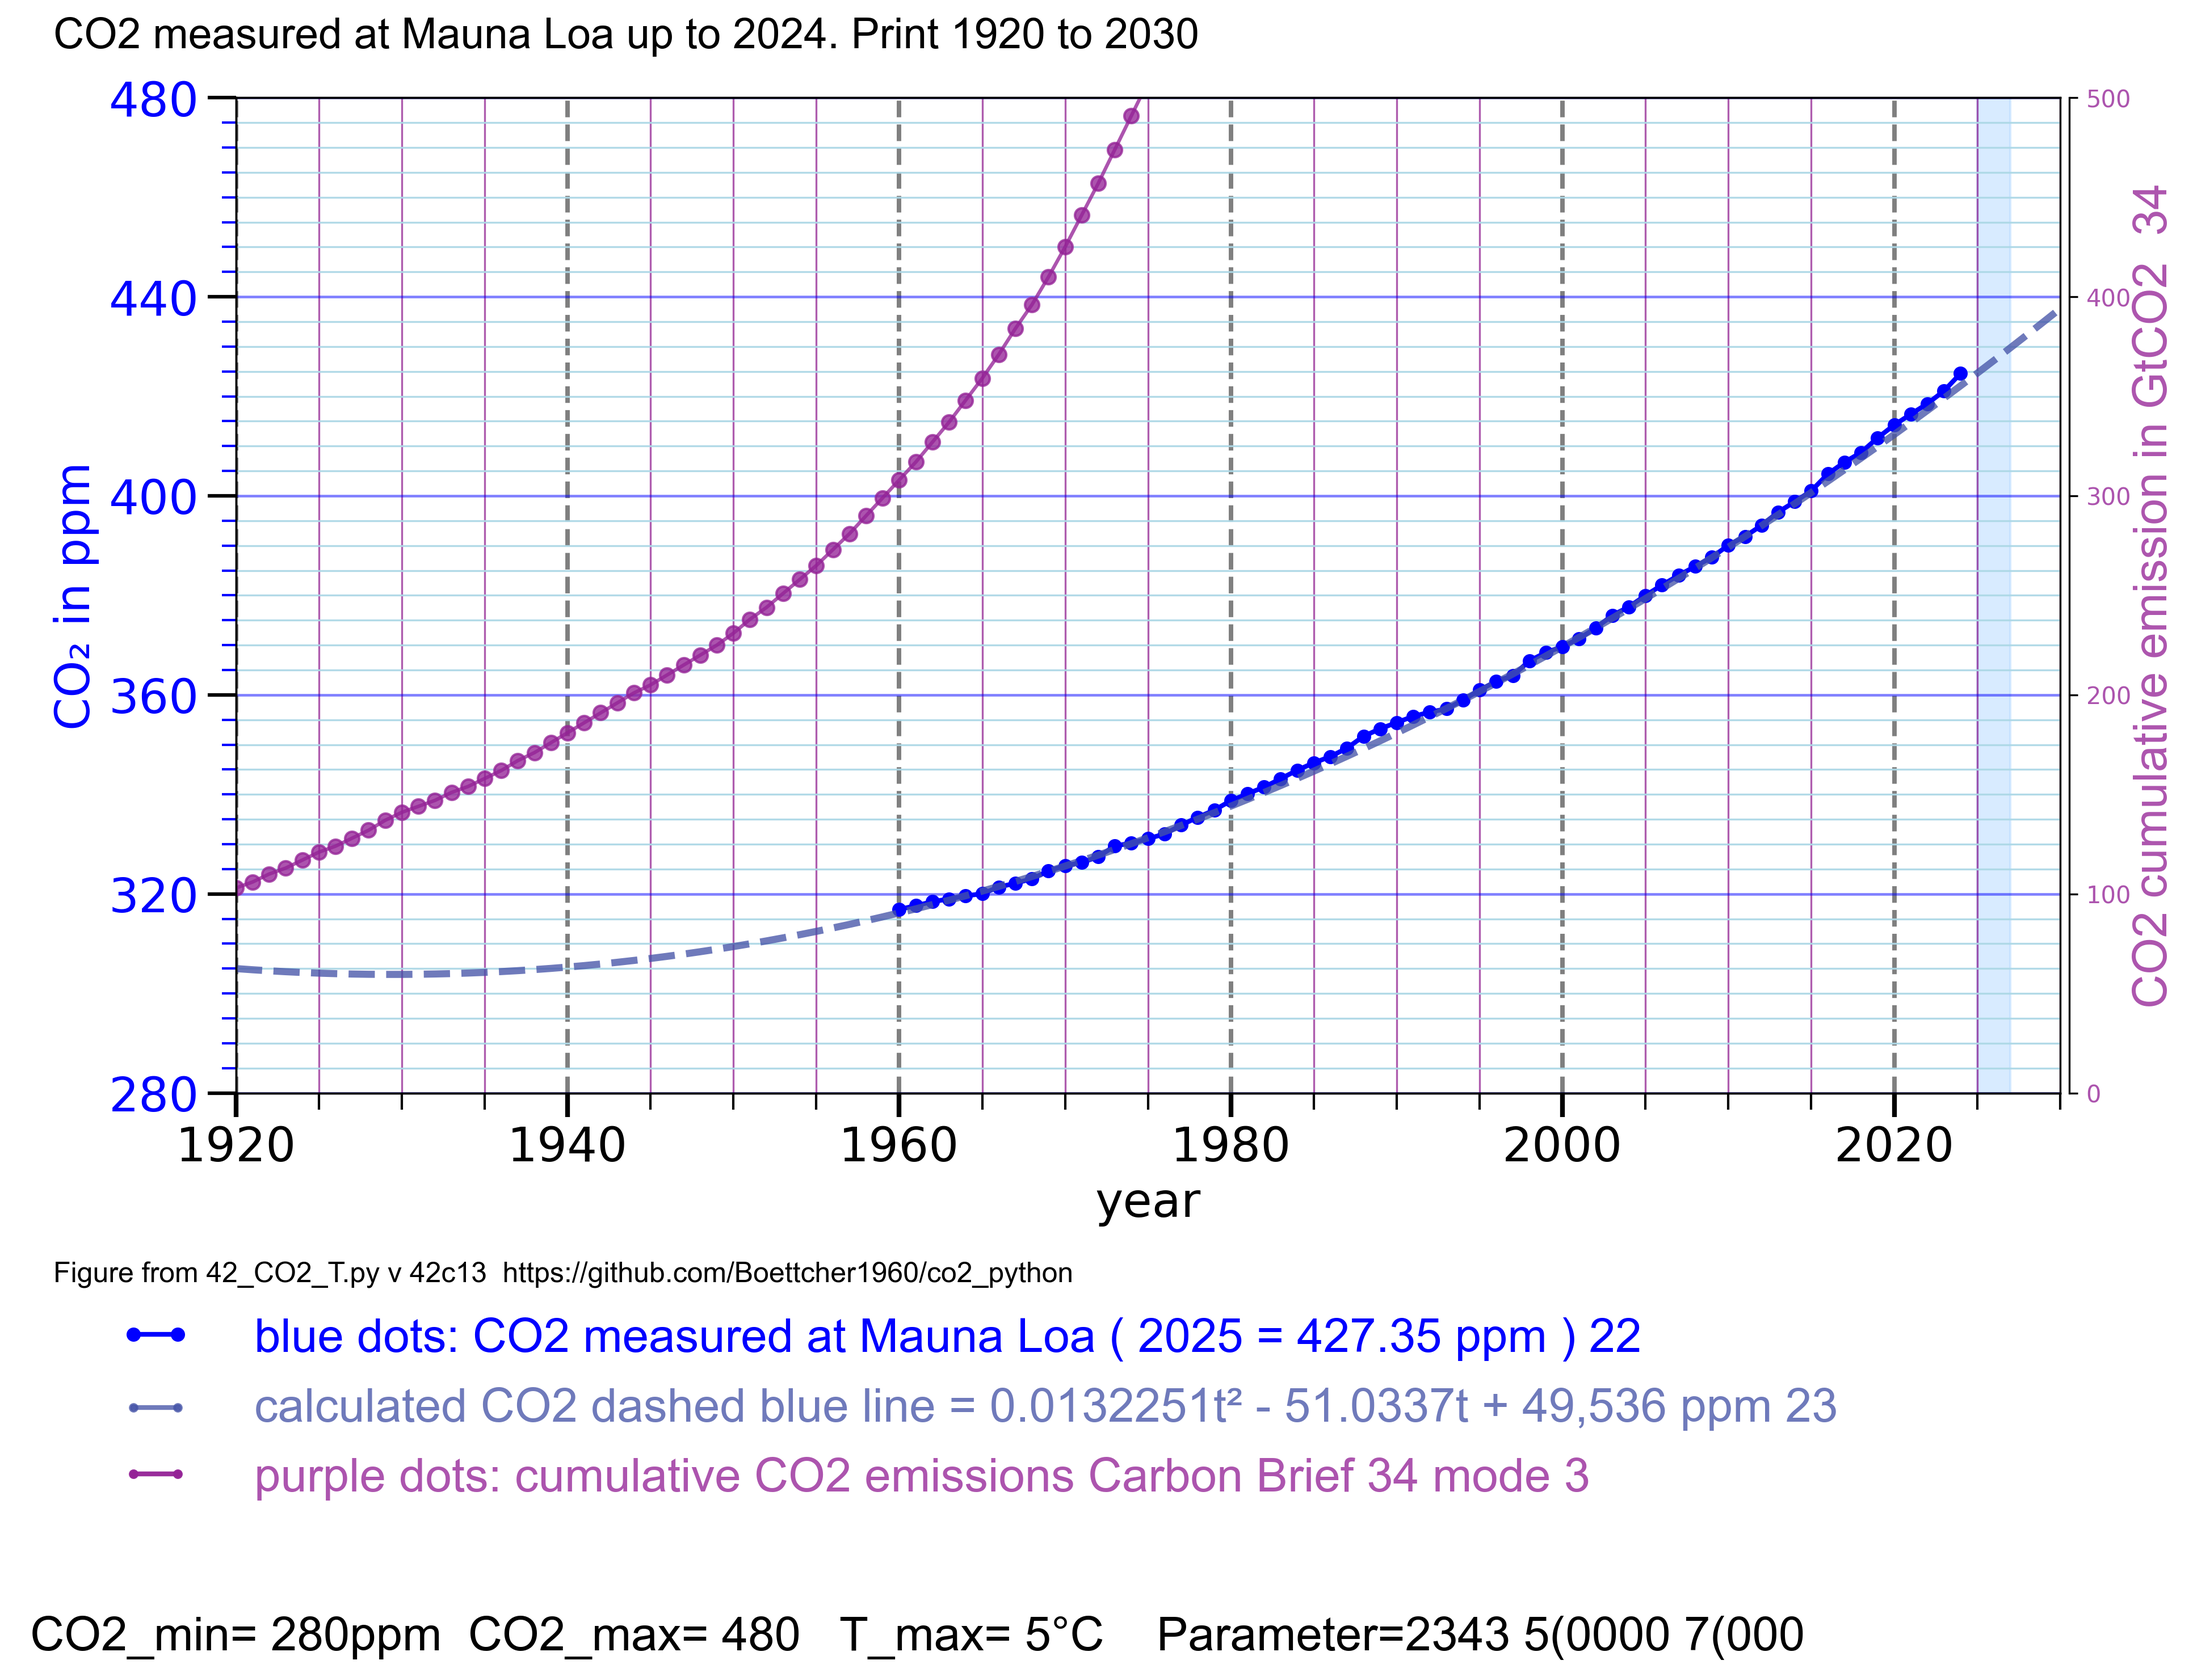
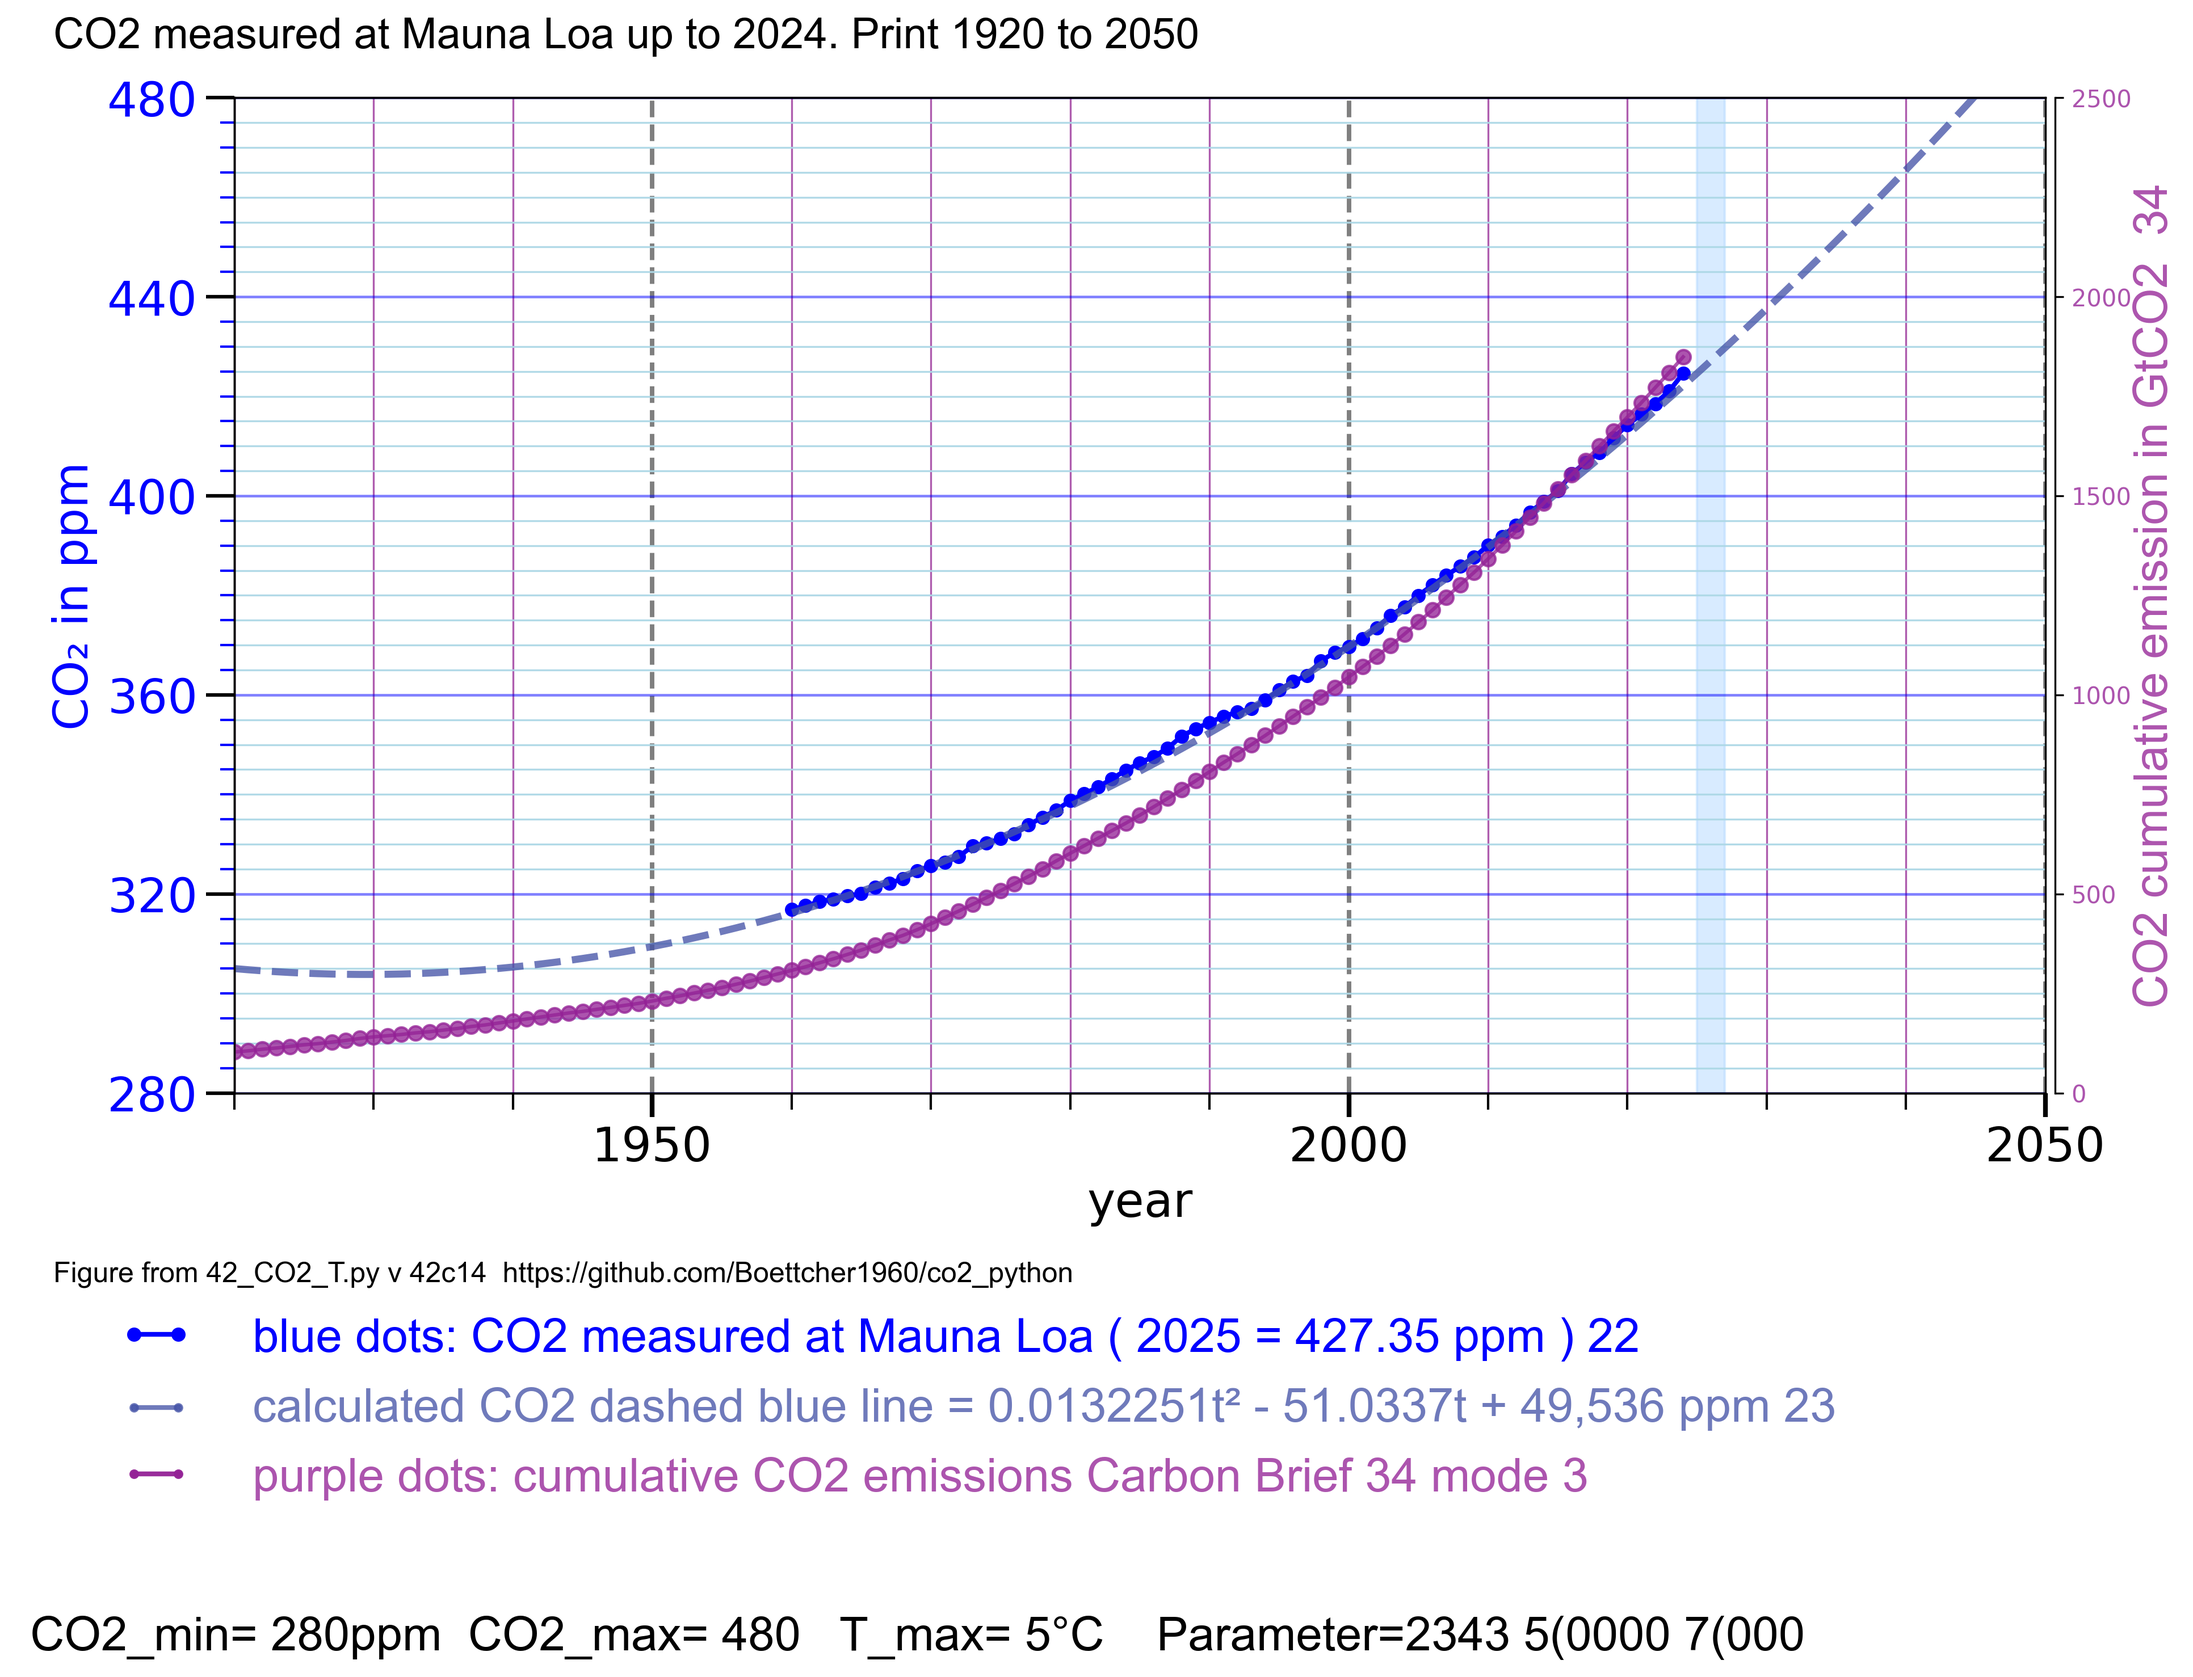
v = "42c14" # 1920 to 2050

diff --git a/42_CO2_T.py b/42_CO2_T.py
@@ -1,5 +1,5 @@
 # 42_CO2_T.py 
-v = "42c13" # 1920 to 1970 
+v = "42c14" # 1920 to 2050 
 # Thomas Boettcher
 # part 1 configure 
 # part 2.2 plot CO2 Mauna Loa
@@ -71,7 +71,7 @@ y_Tmin = 0 # min value °C
 y_Tmax = 5 # 4 # max value C
 
 x_anf = 1920 # 1960 2000 
-x_end = 1970 # 2200 2026 
+x_end = 2050 # 2200 2026 
 
 # 1.4.5 scale the text rows below the plot field
 tr1x = -0.09 # text row 1 x value -.3...1 -0.12
@@ -696,7 +696,7 @@ if plot34_CO2_emission > 0:
    elif plot34_CO2_emission_mode == 3:
       ax34.plot(co2_sum_world["Year"], co2_sum_world["GCumulat"], marker="o",  color=c34, label="plot34_CO2_emission")
       ax34.tick_params(axis="y", labelcolor=c34)
-      ax34.set_ylim(0, 500) # best scaling 2000 GtCO2
+      ax34.set_ylim(0, 2500) # best scaling 2000 GtCO2
    elif plot34_CO2_emission_mode == 4:
       ax34.set_ylabel("cumulative emission in GtC  34 mode 4", color=c34,
                    fontname="Arial",fontsize=20,
@@ -705,7 +705,7 @@ if plot34_CO2_emission > 0:
       ax34.plot(co2_sum_world["Year"], co2_sum_world["CCumulat"], marker="o",  color=c34, label="plot34_CO2_emission")
       ax34.tick_params(axis="y", labelcolor=c34)
       ax34.set_ylim(0, 800) # best scaling 500 GtC
-      ax34.set_ylim(0, 500) # best scaling 500 GtC
+      ax34.set_ylim(0, 1000) # best scaling 500 GtC
       
    else:
       ax34.plot(df34b["Year"], df34b["Cumulat"], marker="o",  color=c34, label="plot34_CO2_emission")
